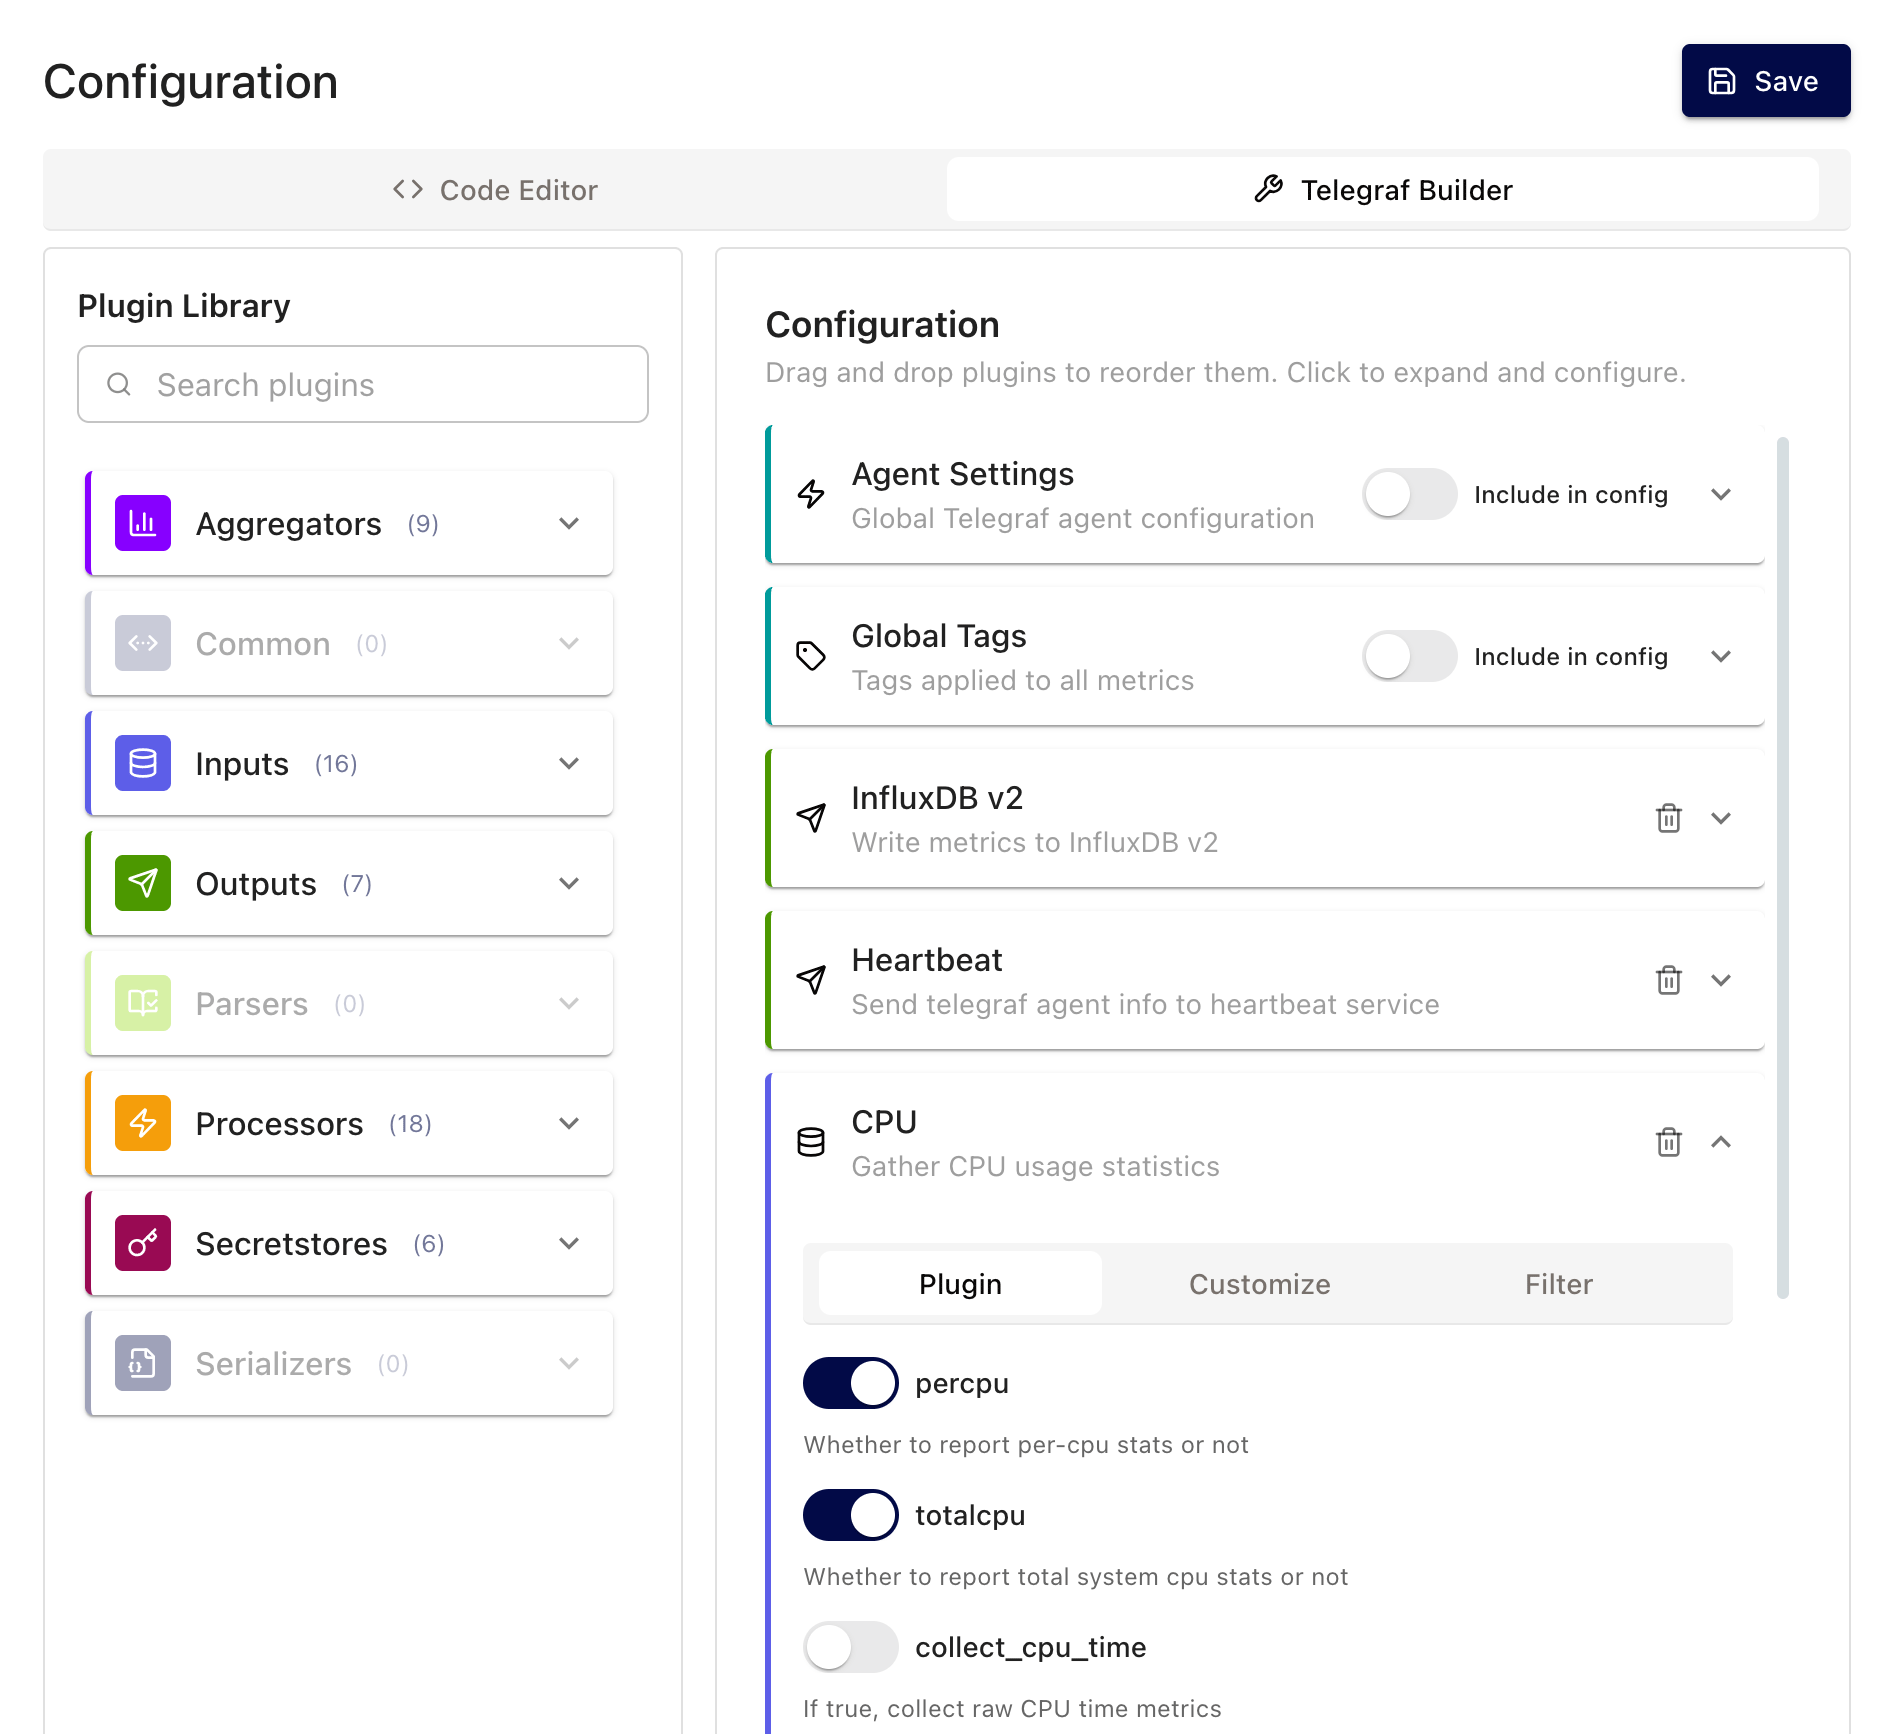
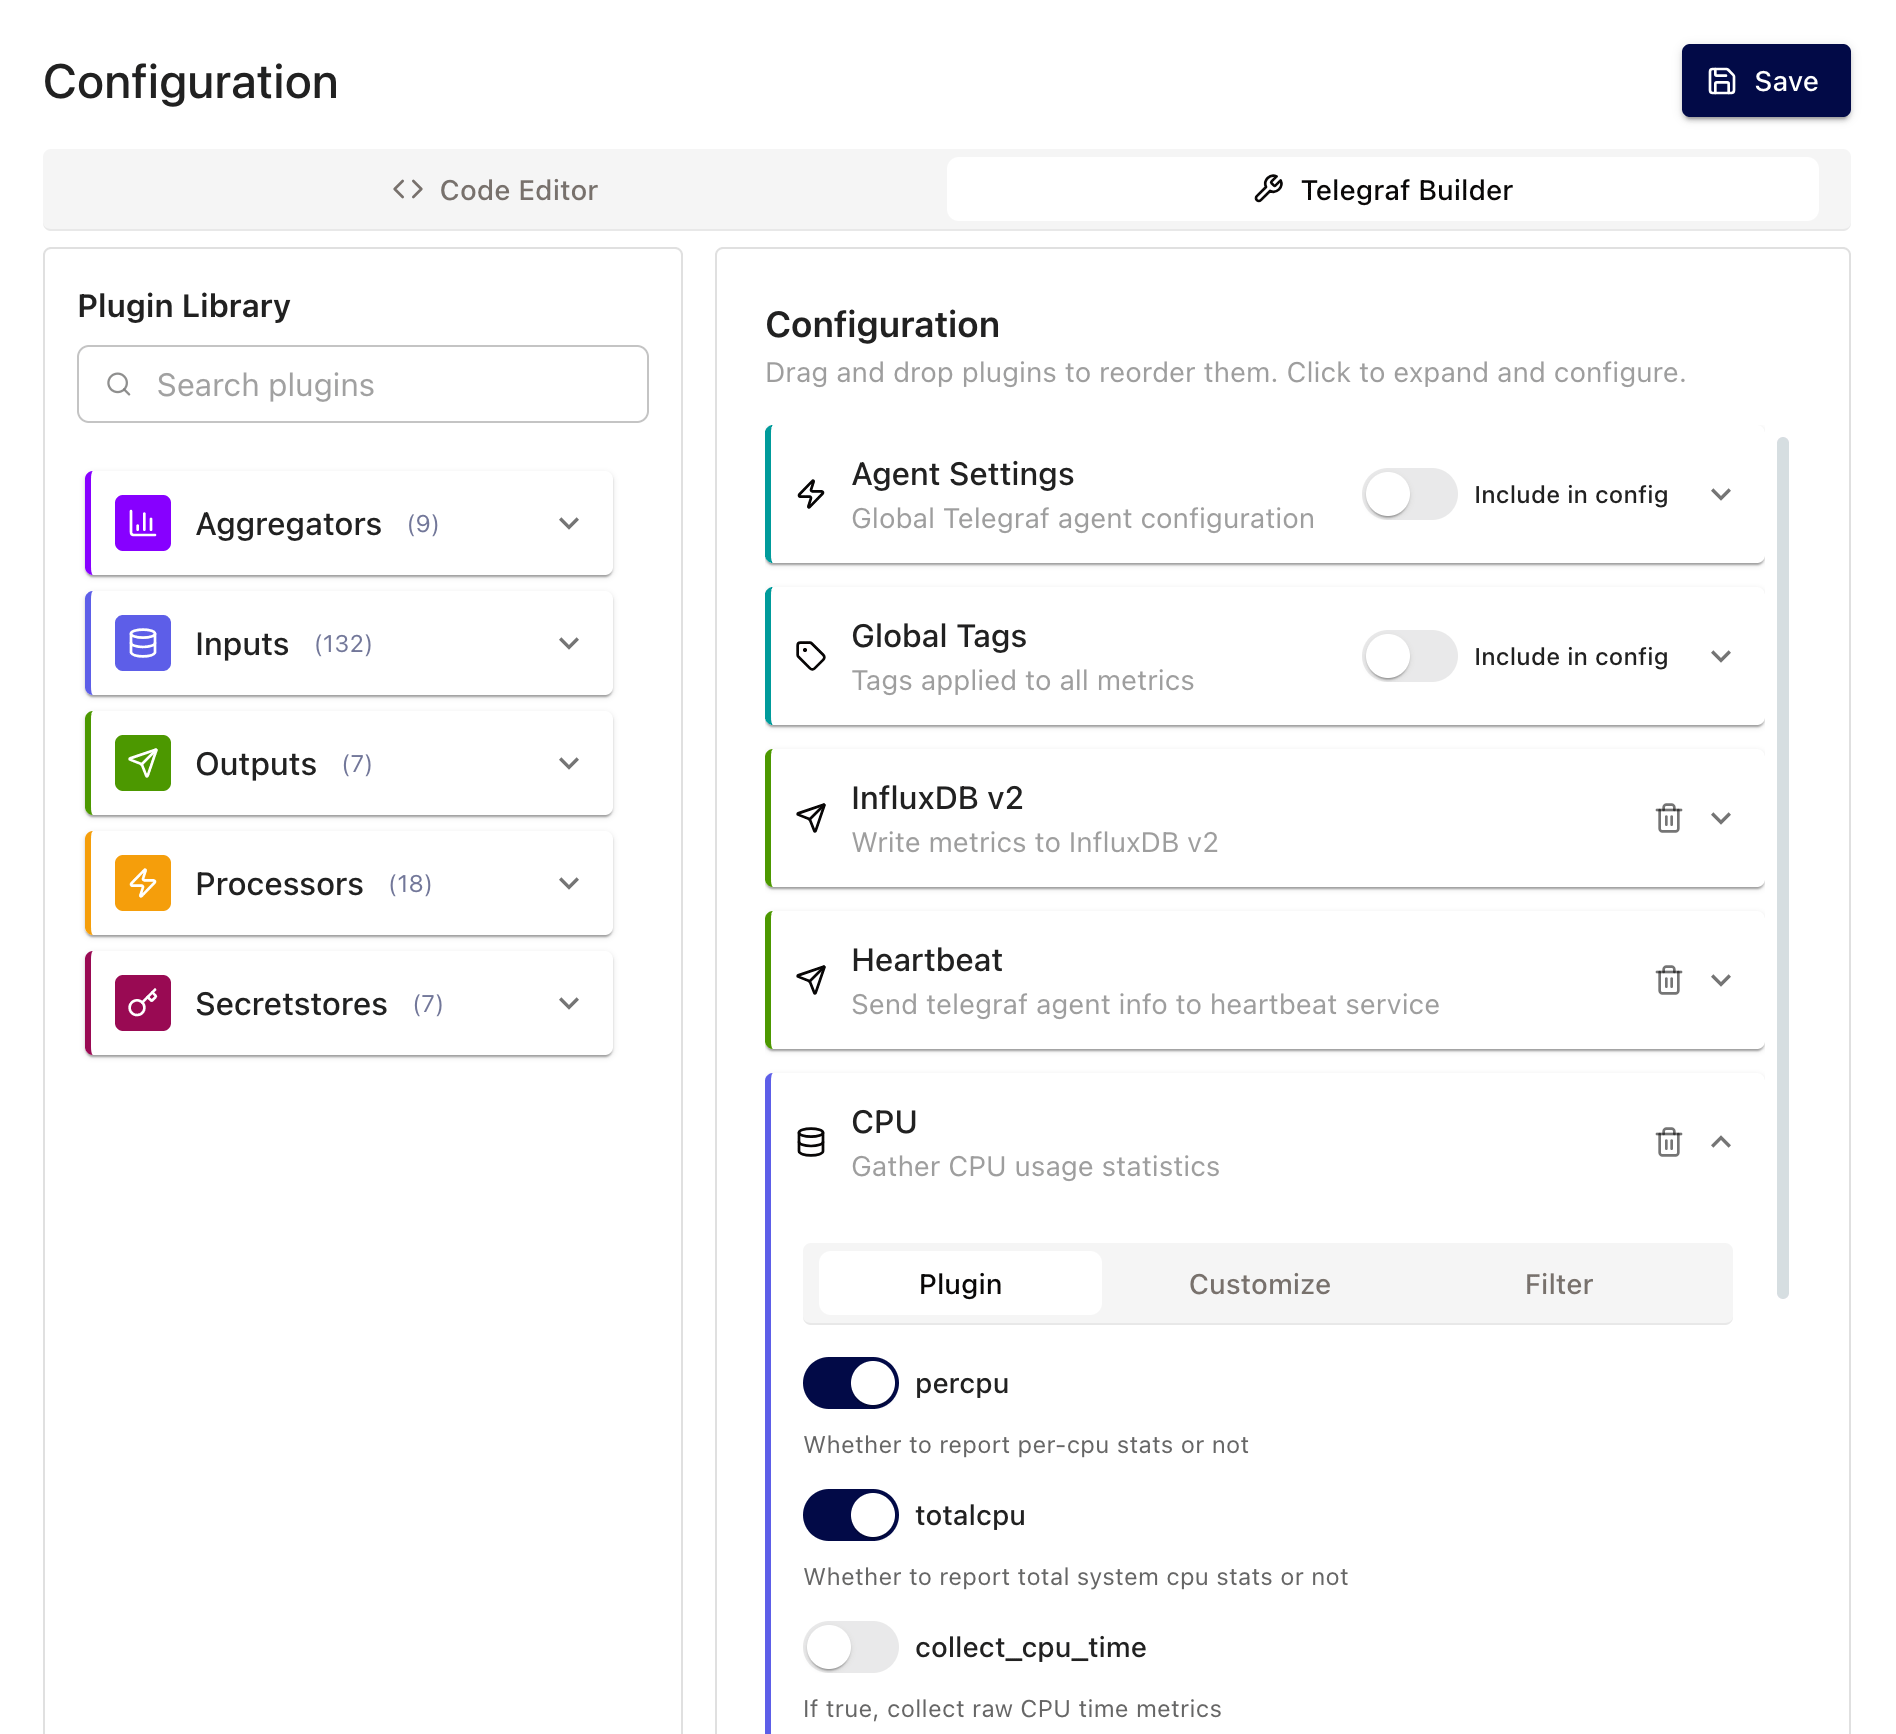
Deploy preview for PR 7173 🛫

Changed region(s): [[0.0311, 0.6228, 0.1867, 0.8097], [0.0311, 0.3426, 0.2178, 0.5294], [0.0311, 0.5606, 0.2178, 0.5917]]

diff --git a/pr-preview/pr-7173/influxdb/cloud/reference/cli/influx/backup/index.html b/pr-preview/pr-7173/influxdb/cloud/reference/cli/influx/backup/index.html
@@ -7878,17 +7878,17 @@ shape the future of Telegraf Enterprise.</p>
            
     </div>
   
-    <div class="notification note min" id="telegraf-controller-0.0.6-beta" data-scope='/telegraf/controller/' data-exclude=''>
+    <div class="notification note min" id="telegraf-controller-0.0.7-beta" data-scope='/telegraf/controller/' data-exclude=''>
       <div class="close-notification"><span class="cf-icon Remove_New"></span></div> 
       <div class="notification-title">
         
-        <h3>Telegraf Controller v0.0.6-beta now available</h3>
+        <h3>Telegraf Controller v0.0.7-beta now available</h3>
       </div>
       
       <div class="notification-slug">
-        <p>Telegraf Controller v0.0.6-beta is now available with new features, improvements, and bug fixes.</p>
-<p><a href="/telegraf/controller/reference/release-notes/#v006-beta">View the release notes</a><br>
-<a href="/telegraf/controller/install/#download-and-install-telegraf-controller">Download Telegraf Controller v0.0.6-beta</a></p>
+        <p>Telegraf Controller v0.0.7-beta is now available with new features, improvements, bug fixes, and an important breaking change.</p>
+<p><a href="/telegraf/controller/reference/release-notes/#v007-beta">View the release notes</a><br>
+<a href="/telegraf/controller/install/#download-and-install-telegraf-controller">Download Telegraf Controller v0.0.7-beta</a></p>
 
       </div>
       

diff --git a/pr-preview/pr-7173/influxdb/v2/admin/backup-restore/backup/index.html b/pr-preview/pr-7173/influxdb/v2/admin/backup-restore/backup/index.html
@@ -8510,17 +8510,17 @@ shape the future of Telegraf Enterprise.</p>
            
     </div>
   
-    <div class="notification note min" id="telegraf-controller-0.0.6-beta" data-scope='/telegraf/controller/' data-exclude=''>
+    <div class="notification note min" id="telegraf-controller-0.0.7-beta" data-scope='/telegraf/controller/' data-exclude=''>
       <div class="close-notification"><span class="cf-icon Remove_New"></span></div> 
       <div class="notification-title">
         
-        <h3>Telegraf Controller v0.0.6-beta now available</h3>
+        <h3>Telegraf Controller v0.0.7-beta now available</h3>
       </div>
       
       <div class="notification-slug">
-        <p>Telegraf Controller v0.0.6-beta is now available with new features, improvements, and bug fixes.</p>
-<p><a href="/telegraf/controller/reference/release-notes/#v006-beta">View the release notes</a><br>
-<a href="/telegraf/controller/install/#download-and-install-telegraf-controller">Download Telegraf Controller v0.0.6-beta</a></p>
+        <p>Telegraf Controller v0.0.7-beta is now available with new features, improvements, bug fixes, and an important breaking change.</p>
+<p><a href="/telegraf/controller/reference/release-notes/#v007-beta">View the release notes</a><br>
+<a href="/telegraf/controller/install/#download-and-install-telegraf-controller">Download Telegraf Controller v0.0.7-beta</a></p>
 
       </div>
       

diff --git a/pr-preview/pr-7173/influxdb/v2/admin/backup-restore/restore/index.html b/pr-preview/pr-7173/influxdb/v2/admin/backup-restore/restore/index.html
@@ -8583,17 +8583,17 @@ shape the future of Telegraf Enterprise.</p>
            
     </div>
   
-    <div class="notification note min" id="telegraf-controller-0.0.6-beta" data-scope='/telegraf/controller/' data-exclude=''>
+    <div class="notification note min" id="telegraf-controller-0.0.7-beta" data-scope='/telegraf/controller/' data-exclude=''>
       <div class="close-notification"><span class="cf-icon Remove_New"></span></div> 
       <div class="notification-title">
         
-        <h3>Telegraf Controller v0.0.6-beta now available</h3>
+        <h3>Telegraf Controller v0.0.7-beta now available</h3>
       </div>
       
       <div class="notification-slug">
-        <p>Telegraf Controller v0.0.6-beta is now available with new features, improvements, and bug fixes.</p>
-<p><a href="/telegraf/controller/reference/release-notes/#v006-beta">View the release notes</a><br>
-<a href="/telegraf/controller/install/#download-and-install-telegraf-controller">Download Telegraf Controller v0.0.6-beta</a></p>
+        <p>Telegraf Controller v0.0.7-beta is now available with new features, improvements, bug fixes, and an important breaking change.</p>
+<p><a href="/telegraf/controller/reference/release-notes/#v007-beta">View the release notes</a><br>
+<a href="/telegraf/controller/install/#download-and-install-telegraf-controller">Download Telegraf Controller v0.0.7-beta</a></p>
 
       </div>
       

diff --git a/pr-preview/pr-7173/influxdb/v2/admin/tokens/index.html b/pr-preview/pr-7173/influxdb/v2/admin/tokens/index.html
@@ -8625,17 +8625,17 @@ shape the future of Telegraf Enterprise.</p>
            
     </div>
   
-    <div class="notification note min" id="telegraf-controller-0.0.6-beta" data-scope='/telegraf/controller/' data-exclude=''>
+    <div class="notification note min" id="telegraf-controller-0.0.7-beta" data-scope='/telegraf/controller/' data-exclude=''>
       <div class="close-notification"><span class="cf-icon Remove_New"></span></div> 
       <div class="notification-title">
         
-        <h3>Telegraf Controller v0.0.6-beta now available</h3>
+        <h3>Telegraf Controller v0.0.7-beta now available</h3>
       </div>
       
       <div class="notification-slug">
-        <p>Telegraf Controller v0.0.6-beta is now available with new features, improvements, and bug fixes.</p>
-<p><a href="/telegraf/controller/reference/release-notes/#v006-beta">View the release notes</a><br>
-<a href="/telegraf/controller/install/#download-and-install-telegraf-controller">Download Telegraf Controller v0.0.6-beta</a></p>
+        <p>Telegraf Controller v0.0.7-beta is now available with new features, improvements, bug fixes, and an important breaking change.</p>
+<p><a href="/telegraf/controller/reference/release-notes/#v007-beta">View the release notes</a><br>
+<a href="/telegraf/controller/install/#download-and-install-telegraf-controller">Download Telegraf Controller v0.0.7-beta</a></p>
 
       </div>
       

diff --git a/pr-preview/pr-7173/influxdb/v2/index.html b/pr-preview/pr-7173/influxdb/v2/index.html
@@ -9945,17 +9945,17 @@ shape the future of Telegraf Enterprise.</p>
            
     </div>
   
-    <div class="notification note min" id="telegraf-controller-0.0.6-beta" data-scope='/telegraf/controller/' data-exclude=''>
+    <div class="notification note min" id="telegraf-controller-0.0.7-beta" data-scope='/telegraf/controller/' data-exclude=''>
       <div class="close-notification"><span class="cf-icon Remove_New"></span></div> 
       <div class="notification-title">
         
-        <h3>Telegraf Controller v0.0.6-beta now available</h3>
+        <h3>Telegraf Controller v0.0.7-beta now available</h3>
       </div>
       
       <div class="notification-slug">
-        <p>Telegraf Controller v0.0.6-beta is now available with new features, improvements, and bug fixes.</p>
-<p><a href="/telegraf/controller/reference/release-notes/#v006-beta">View the release notes</a><br>
-<a href="/telegraf/controller/install/#download-and-install-telegraf-controller">Download Telegraf Controller v0.0.6-beta</a></p>
+        <p>Telegraf Controller v0.0.7-beta is now available with new features, improvements, bug fixes, and an important breaking change.</p>
+<p><a href="/telegraf/controller/reference/release-notes/#v007-beta">View the release notes</a><br>
+<a href="/telegraf/controller/install/#download-and-install-telegraf-controller">Download Telegraf Controller v0.0.7-beta</a></p>
 
       </div>
       

diff --git a/pr-preview/pr-7173/influxdb/v2/reference/cli/influx/backup/index.html b/pr-preview/pr-7173/influxdb/v2/reference/cli/influx/backup/index.html
@@ -8703,17 +8703,17 @@ shape the future of Telegraf Enterprise.</p>
            
     </div>
   
-    <div class="notification note min" id="telegraf-controller-0.0.6-beta" data-scope='/telegraf/controller/' data-exclude=''>
+    <div class="notification note min" id="telegraf-controller-0.0.7-beta" data-scope='/telegraf/controller/' data-exclude=''>
       <div class="close-notification"><span class="cf-icon Remove_New"></span></div> 
       <div class="notification-title">
         
-        <h3>Telegraf Controller v0.0.6-beta now available</h3>
+        <h3>Telegraf Controller v0.0.7-beta now available</h3>
       </div>
       
       <div class="notification-slug">
-        <p>Telegraf Controller v0.0.6-beta is now available with new features, improvements, and bug fixes.</p>
-<p><a href="/telegraf/controller/reference/release-notes/#v006-beta">View the release notes</a><br>
-<a href="/telegraf/controller/install/#download-and-install-telegraf-controller">Download Telegraf Controller v0.0.6-beta</a></p>
+        <p>Telegraf Controller v0.0.7-beta is now available with new features, improvements, bug fixes, and an important breaking change.</p>
+<p><a href="/telegraf/controller/reference/release-notes/#v007-beta">View the release notes</a><br>
+<a href="/telegraf/controller/install/#download-and-install-telegraf-controller">Download Telegraf Controller v0.0.7-beta</a></p>
 
       </div>
       

diff --git a/pr-preview/pr-7173/influxdb/v2/reference/config-options/index.html b/pr-preview/pr-7173/influxdb/v2/reference/config-options/index.html
@@ -12435,17 +12435,17 @@ shape the future of Telegraf Enterprise.</p>
            
     </div>
   
-    <div class="notification note min" id="telegraf-controller-0.0.6-beta" data-scope='/telegraf/controller/' data-exclude=''>
+    <div class="notification note min" id="telegraf-controller-0.0.7-beta" data-scope='/telegraf/controller/' data-exclude=''>
       <div class="close-notification"><span class="cf-icon Remove_New"></span></div> 
       <div class="notification-title">
         
-        <h3>Telegraf Controller v0.0.6-beta now available</h3>
+        <h3>Telegraf Controller v0.0.7-beta now available</h3>
       </div>
       
       <div class="notification-slug">
-        <p>Telegraf Controller v0.0.6-beta is now available with new features, improvements, and bug fixes.</p>
-<p><a href="/telegraf/controller/reference/release-notes/#v006-beta">View the release notes</a><br>
-<a href="/telegraf/controller/install/#download-and-install-telegraf-controller">Download Telegraf Controller v0.0.6-beta</a></p>
+        <p>Telegraf Controller v0.0.7-beta is now available with new features, improvements, bug fixes, and an important breaking change.</p>
+<p><a href="/telegraf/controller/reference/release-notes/#v007-beta">View the release notes</a><br>
+<a href="/telegraf/controller/install/#download-and-install-telegraf-controller">Download Telegraf Controller v0.0.7-beta</a></p>
 
       </div>
       

diff --git a/pr-preview/pr-7173/influxdb/v2/reference/release-notes/influxdb/index.html b/pr-preview/pr-7173/influxdb/v2/reference/release-notes/influxdb/index.html
@@ -10707,17 +10707,17 @@ shape the future of Telegraf Enterprise.</p>
            
     </div>
   
-    <div class="notification note min" id="telegraf-controller-0.0.6-beta" data-scope='/telegraf/controller/' data-exclude=''>
+    <div class="notification note min" id="telegraf-controller-0.0.7-beta" data-scope='/telegraf/controller/' data-exclude=''>
       <div class="close-notification"><span class="cf-icon Remove_New"></span></div> 
       <div class="notification-title">
         
-        <h3>Telegraf Controller v0.0.6-beta now available</h3>
+        <h3>Telegraf Controller v0.0.7-beta now available</h3>
       </div>
       
       <div class="notification-slug">
-        <p>Telegraf Controller v0.0.6-beta is now available with new features, improvements, and bug fixes.</p>
-<p><a href="/telegraf/controller/reference/release-notes/#v006-beta">View the release notes</a><br>
-<a href="/telegraf/controller/install/#download-and-install-telegraf-controller">Download Telegraf Controller v0.0.6-beta</a></p>
+        <p>Telegraf Controller v0.0.7-beta is now available with new features, improvements, bug fixes, and an important breaking change.</p>
+<p><a href="/telegraf/controller/reference/release-notes/#v007-beta">View the release notes</a><br>
+<a href="/telegraf/controller/install/#download-and-install-telegraf-controller">Download Telegraf Controller v0.0.7-beta</a></p>
 
       </div>
       

diff --git a/pr-preview/pr-7173/influxdb3/cloud-serverless/reference/cli/influx/backup/index.html b/pr-preview/pr-7173/influxdb3/cloud-serverless/reference/cli/influx/backup/index.html
@@ -6216,17 +6216,17 @@ shape the future of Telegraf Enterprise.</p>
            
     </div>
   
-    <div class="notification note min" id="telegraf-controller-0.0.6-beta" data-scope='/telegraf/controller/' data-exclude=''>
+    <div class="notification note min" id="telegraf-controller-0.0.7-beta" data-scope='/telegraf/controller/' data-exclude=''>
       <div class="close-notification"><span class="cf-icon Remove_New"></span></div> 
       <div class="notification-title">
         
-        <h3>Telegraf Controller v0.0.6-beta now available</h3>
+        <h3>Telegraf Controller v0.0.7-beta now available</h3>
       </div>
       
       <div class="notification-slug">
-        <p>Telegraf Controller v0.0.6-beta is now available with new features, improvements, and bug fixes.</p>
-<p><a href="/telegraf/controller/reference/release-notes/#v006-beta">View the release notes</a><br>
-<a href="/telegraf/controller/install/#download-and-install-telegraf-controller">Download Telegraf Controller v0.0.6-beta</a></p>
+        <p>Telegraf Controller v0.0.7-beta is now available with new features, improvements, bug fixes, and an important breaking change.</p>
+<p><a href="/telegraf/controller/reference/release-notes/#v007-beta">View the release notes</a><br>
+<a href="/telegraf/controller/install/#download-and-install-telegraf-controller">Download Telegraf Controller v0.0.7-beta</a></p>
 
       </div>
       

diff --git a/pr-preview/pr-7173/index.html b/pr-preview/pr-7173/index.html
@@ -30,6 +30,6 @@
       <li><a href="./influxdb/v2/reference/cli/influx/restore/index/">/influxdb/v2/reference/cli/influx/restore/index/</a></li>
       <li><a href="./influxdb/cloud/reference/cli/influx/restore/index/">/influxdb/cloud/reference/cli/influx/restore/index/</a></li>
   </ul>
-  <p class="meta">Generated: 2026-04-30T18:52:45.424Z</p>
+  <p class="meta">Generated: 2026-04-30T19:33:26.144Z</p>
 </body>
 </html>